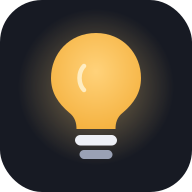
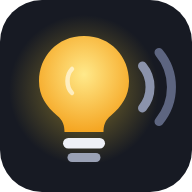
« Fausse alerte » depuis le chalet, et l'ampoule qui écoute
- Une alerte ne pouvait être éteinte que depuis la salle, alors que la
  personne la mieux placée pour savoir qu'elle est fausse est dans le
  chalet — test du clap, parent qui borde encore. Un bouton « Fausse
  alerte — tout va bien » apparaît sur l'écran chalet dès qu'une alerte
  est en cours, quelle qu'en soit la cause ; le journal note « réglé par
  le chalet ». (Le curseur de seuil, lui, ne déclenche jamais d'alerte :
  la détection ne s'arme qu'après « Allumer la veilleuse ».)
- Nouvelle icône choisie avec Sylvain : l'ampoule qui écoute — l'ampoule
  d'origine, décalée pour laisser place aux ondes du babyphone. SVG
  redessiné, PNG 192 et 512 régénérés, jaune aligné sur la palette.

diff --git a/app/static/app.js b/app/static/app.js
@@ -231,6 +231,9 @@
       if (m.type !== "state") return;
       const me = m.chalets.find((c) => c.id === chalet.id);
       chalet.alerting = !!(me && me.alert);
+      // Celui qui est dans le chalet sait mieux que personne qu'une alerte est fausse
+      // (test du clap, parent encore dans la chambre) : il peut l'éteindre d'ici.
+      $("btn-cancel").classList.toggle("hidden", !chalet.alerting);
       if (!detector.micAlive()) return; // l'écran « micro coupé » prime sur l'état serveur
       const st = $("run-status");
       if (!me?.alert) { st.textContent = "Veilleuse allumée"; st.className = "run-status"; $("run-msg").textContent = "Les parents sont prévenus dès qu'un bruit dépasse le seuil."; }
@@ -310,7 +313,12 @@
     setTimeout(() => $("run-listen").classList.add("hidden"), 3000);
   }
 
-  $("btn-test").addEventListener("click", () => { net.send({ type: "test", chalet_id: chalet.id }); toast("Alerte de test envoyée"); });
+  $("btn-test").addEventListener("click", () => { net.send({ type: "test", chalet_id: chalet.id }); toast("Alerte de test envoyée — « Fausse alerte » pour l'arrêter"); });
+  $("btn-cancel").addEventListener("click", () => {
+    net.send({ type: "resolve", chalet_id: chalet.id, by: "le chalet" });
+    $("btn-cancel").classList.add("hidden");
+    toast("Alerte annulée, les téléphones de la salle sont rassurés");
+  });
   $("btn-stop").addEventListener("click", () => { clearInterval(chalet.hbTimer); stopEverything(); show("home"); });
 
   // ============================================================

diff --git a/app/static/app.css b/app/static/app.css
@@ -133,7 +133,7 @@ input[type=text]:focus, select:focus { border-color: var(--amber); }
 .run-chalet { font-size: var(--t-xl); font-weight: 800; margin: var(--s1) 0 0; }
 .run-kids { color: var(--muted); margin-bottom: var(--s5); }
 .run-msg { color: var(--muted); margin-top: var(--s4); font-size: var(--t-sm); }
-#btn-remic { margin-top: var(--s4); }
+#btn-remic, #btn-cancel { margin-top: var(--s4); }
 .run-listen { margin-top: var(--s4); font-weight: 700; color: var(--amber); animation: blink 1.4s infinite; }
 .checklist ul { margin: 0; padding-left: 0; list-style: none; color: var(--muted); display: flex; flex-direction: column; gap: var(--s3); }
 .checklist li { display: flex; align-items: flex-start; gap: var(--s3); line-height: 1.4; }

diff --git a/app/static/index.html b/app/static/index.html
@@ -131,6 +131,7 @@
     <div class="meter big"><div id="run-level" class="meter-rest"></div><div id="run-thr" class="meter-thr"></div></div>
     <div id="run-msg" class="run-msg">Les parents sont prévenus dès qu'un bruit dépasse le seuil.</div>
     <button id="btn-remic" class="btn primary hidden"><svg class="ic"><use href="#i-mic"/></svg> Réactiver le micro</button>
+    <button id="btn-cancel" class="btn secondary hidden">Fausse alerte — tout va bien</button>
     <div id="run-listen" class="run-listen hidden"></div>
   </div>
   <div class="checklist card">
